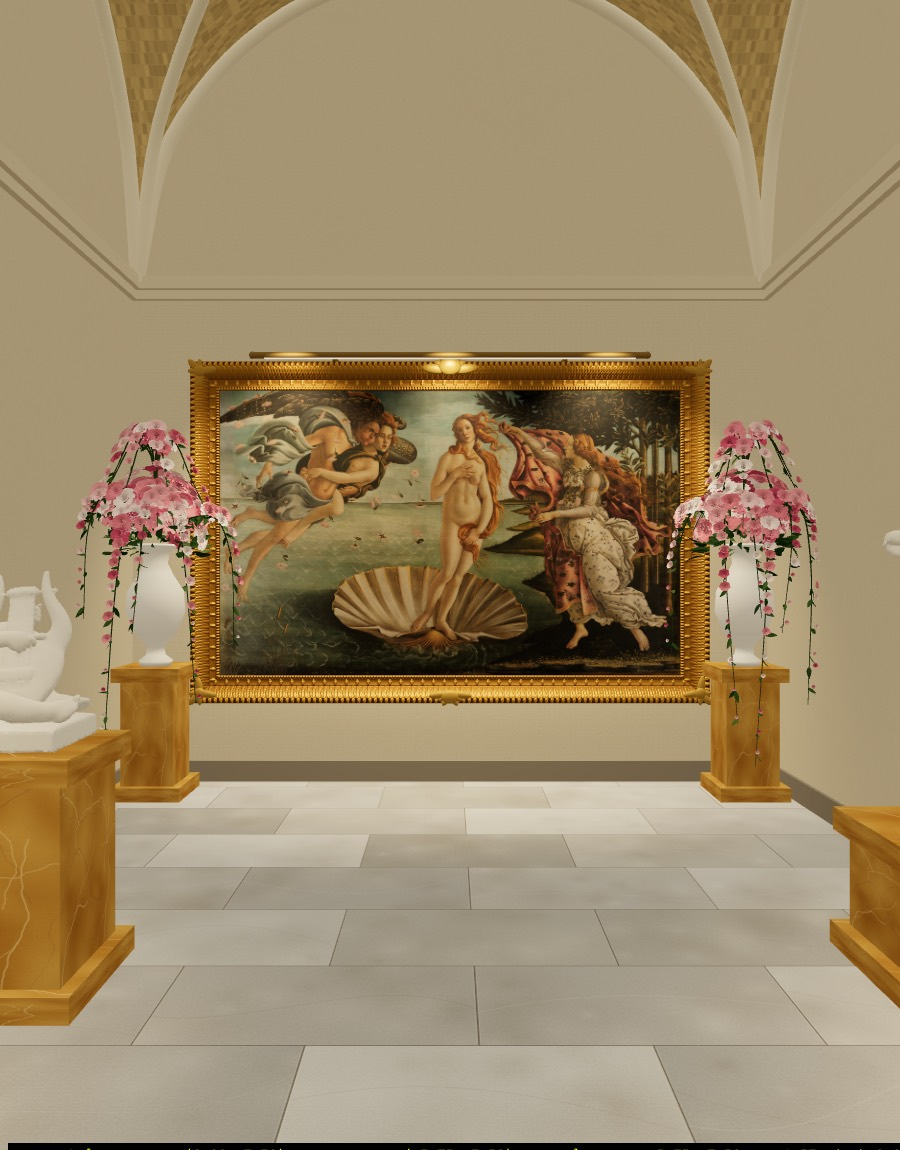
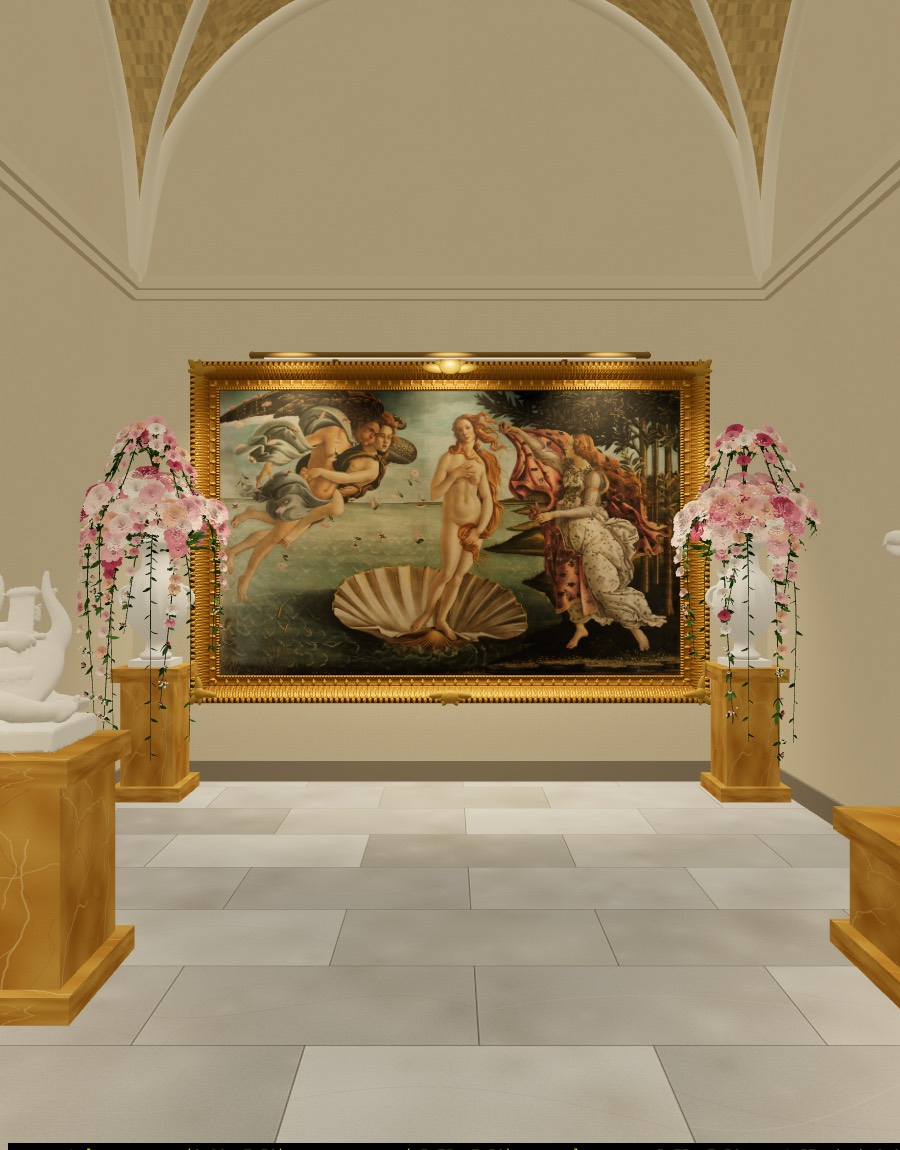
Wing I urns: carved marble vases, and a garden arrangement of roses, foliage, gypsophila and ivy

Changed region(s): [[0.0622, 0.3652, 0.28, 0.6391], [0.7467, 0.3652, 0.9022, 0.6696]]

diff --git a/Wedding website planning/gallery3d.js b/Wedding website planning/gallery3d.js
@@ -1422,11 +1422,26 @@ function pedestal(h, W = 0.5, D = W, mat = plinthMat) {             // W x D: it
   return g;
 }
 function place(g, x, z, rotY) { g.position.set(x, 0, z); g.rotation.y = rotY || 0; scene.add(g); return g; }
-function urn(top) {                                   // a tall marble urn on its pedestal
+function urn(top) {                                   // a carved marble vase on its pedestal, after the Medici and Borghese urns
   const g = pedestal(0.95);
-  const body = lathe([[0, 0], [0.11, 0], [0.12, 0.04], [0.07, 0.08], [0.06, 0.14], [0.15, 0.24], [0.21, 0.4], [0.2, 0.55], [0.12, 0.68], [0.085, 0.76], [0.1, 0.84], [0.15, 0.88], [0.13, 0.9], [0, 0.9]], marbleWhite);
+  const foot = new THREE.Mesh(new THREE.BoxGeometry(0.3, 0.05, 0.3), marbleWhite);   // square foot
+  foot.position.y = 0.95 + 0.025; g.add(foot);
+  // torus base, gadrooned bowl, a wide belly, a narrow neck and a flared lip
+  const profile = [[0, 0.05], [0.105, 0.05], [0.115, 0.085], [0.075, 0.115], [0.068, 0.19], [0.16, 0.27], [0.225, 0.42], [0.215, 0.56], [0.16, 0.66], [0.108, 0.72], [0.095, 0.8], [0.1, 0.855], [0.165, 0.895], [0.155, 0.93], [0.125, 0.93], [0, 0.93]];
+  const geo = new THREE.LatheGeometry(profile.map(([r, y]) => new THREE.Vector2(r, y)), 96), pos = geo.attributes.position;
+  for (let i = 0; i < pos.count; i++) {                            // sixteen convex flutes round the bowl, fading out towards the belly
+    const x = pos.getX(i), y = pos.getY(i), z = pos.getZ(i);
+    if (y > 0.19 && y < 0.58) { const k = Math.sin(Math.PI * (y - 0.19) / 0.39), a = Math.atan2(z, x), f = 1 + 0.05 * k * Math.cos(16 * a); pos.setXYZ(i, x * f, y, z * f); }
+  }
+  geo.computeVertexNormals();
+  const body = new THREE.Mesh(geo, marbleWhite);
   body.position.y = 0.95;
   g.add(body);
+  [-1, 1].forEach((sd) => {                                        // two scroll handles at the shoulder
+    const h = new THREE.Mesh(new THREE.TorusGeometry(0.078, 0.017, 10, 28, Math.PI), marbleWhite);
+    h.position.set(sd * 0.195, 0.95 + 0.5, 0); h.rotation.z = -sd * Math.PI / 2;
+    g.add(h);
+  });
   if (top) { top.position.y = 0.95 + 0.86; g.add(top); }
   return g;
 }
@@ -1525,68 +1540,109 @@ function taperedTube(curve, segs, r0, r1, rnd) {
   pos.needsUpdate = true;
   return geo;
 }
-// roses massed on an urn and trailing down its pedestal on vines, for the urns beside The Birth of Venus
+// roses massed on an urn and fountaining down its pedestal, for the urns beside The Birth of Venus:
+// garden roses of two varieties (cream-blush and coral-pink) with a few deep accents, at every stage from bud to
+// full bloom, on real rose foliage (leaflets in threes), with sprays of gypsophila for air and trailing ivy for depth
 function roseCascade(seed) {
   const g = new THREE.Group(), rnd = seeded(seed);
-  const petals = instancer(PETAL_GEO, new THREE.MeshStandardMaterial({ roughness: 0.62, side: THREE.DoubleSide }));
-  const leaves = instancer(LEAF_GEO, new THREE.MeshStandardMaterial({ roughness: 0.5, side: THREE.DoubleSide }));
-  const ROSES = ['#e9a3ac', '#f2c6c8', '#d97f8e', '#f6e2dc', '#e58f9d', '#c9607a'].map((h) => new THREE.Color(h));
-  const GREENS = ['#2f4a26', '#3d5a2e', '#4d6b35'].map((h) => new THREE.Color(h));
+  const petals = instancer(PETAL_GEO, new THREE.MeshStandardMaterial({ roughness: 0.68, side: THREE.DoubleSide }));
+  const leaves = instancer(LEAF_GEO, new THREE.MeshStandardMaterial({ roughness: 0.55, side: THREE.DoubleSide }));
+  const dots = instancer(new THREE.SphereGeometry(1, 7, 5), new THREE.MeshStandardMaterial({ roughness: 0.8 }));
+  const ROSES = ['#f7ead8', '#f7ead8', '#f4d3c8', '#f4d3c8', '#f4d3c8', '#eeb0b8', '#eeb0b8', '#eeb0b8', '#f1b79e', '#f1b79e', '#dd8c9c', '#dd8c9c', '#bb5872'].map((h) => new THREE.Color(h));
+  const GREENS = ['#2c4524', '#3a562c', '#4a6a34', '#587a3c'].map((h) => new THREE.Color(h));
+  const IVY = ['#22381f', '#2d4a28', '#365a2e'].map((h) => new THREE.Color(h));
   const pick = (arr) => arr[Math.floor(rnd() * arr.length)];
-  // the mass on top: a full, tall dome of open roses, leaves tucked underneath and between
-  for (let i = 0; i < 52; i++) {
+  const V = (x, y, z) => new THREE.Vector3(x, y, z);
+  // a bloom at any stage: a bud on its calyx, a half-open rose, or a full one
+  const bloom = (pos, n, size, stage) => {
+    const t = stage === undefined ? rnd() : stage;
+    if (t < 0.18) {
+      addRose(petals, pos, n, size * 0.62, pick(ROSES), rnd, 1);
+      for (let k = 0; k < 4; k++) addLeaf(leaves, pos.clone().addScaledVector(n.clone().normalize(), -size * 0.1), n.clone().normalize().applyAxisAngle(V(rnd() - 0.5, rnd() - 0.5, rnd() - 0.5).normalize(), 0.7), size * 0.9, GREENS[0], rnd);
+    } else if (t < 0.45) addRose(petals, pos, n, size * 0.85, pick(ROSES), rnd, 2);
+    else addRose(petals, pos, n, size, pick(ROSES), rnd, 3);
+  };
+  // rose foliage: a compound leaf of three leaflets, the middle one a little longer
+  const leafCluster = (pos, dir, size, col) => {
+    const d = dir.clone().normalize(), side = V(-d.z, 0, d.x).normalize();
+    if (side.lengthSq() < 1e-4) side.set(1, 0, 0);
+    addLeaf(leaves, pos, d, size * 1.05, col || pick(GREENS), rnd);
+    [-1, 1].forEach((sd) => addLeaf(leaves, pos.clone().addScaledVector(d, -size * 0.25), d.clone().addScaledVector(side, sd * 0.75).normalize(), size * 0.8, col || pick(GREENS), rnd));
+  };
+  // gypsophila: a loose spray of tiny white flowers
+  const gyp = (pos, n) => {
+    const count = 6 + Math.floor(rnd() * 6), c = new THREE.Color('#fbf6ec');
+    for (let k = 0; k < count; k++) {
+      const p = pos.clone().add(V(rnd() - 0.5, rnd() - 0.5, rnd() - 0.5).multiplyScalar(0.07)).addScaledVector(n, 0.02 + rnd() * 0.04);
+      dots.add(new THREE.Matrix4().compose(p, new THREE.Quaternion(), V(0.0065, 0.0065, 0.0065)), c);
+    }
+  };
+  // the mass on top: a tall dome of blooms, foliage tucked between and underneath, gypsophila at the edges
+  for (let i = 0; i < 58; i++) {
     const a = rnd() * 6.283, e = Math.acos(1 - rnd() * 1.05), R = 0.3 + rnd() * 0.06;
-    const n = new THREE.Vector3(Math.sin(e) * Math.cos(a), Math.cos(e), Math.sin(e) * Math.sin(a));
-    addRose(petals, n.clone().multiplyScalar(R).setY(n.y * R * 1.35 + 0.1), n, 0.048 + rnd() * 0.016, pick(ROSES), rnd);
+    const n = V(Math.sin(e) * Math.cos(a), Math.cos(e), Math.sin(e) * Math.sin(a));
+    bloom(n.clone().multiplyScalar(R).setY(n.y * R * 1.35 + 0.1), n, 0.054 + rnd() * 0.016, rnd() < 0.75 ? 0.5 + rnd() * 0.5 : rnd() * 0.45);
   }
-  // the fountain: tall sprays rising out of the middle of the dome, arching over and out, roses along the
-  // arc thinning to buds at the tips
+  for (let i = 0; i < 34; i++) {
+    const a = rnd() * 6.283, e = 0.85 + rnd() * 0.95, R = 0.3 + rnd() * 0.1;
+    const n = V(Math.sin(e) * Math.cos(a), Math.cos(e) * 0.6, Math.sin(e) * Math.sin(a));
+    leafCluster(n.clone().multiplyScalar(R * 0.82), n, 0.085 + rnd() * 0.04);
+  }
+  for (let i = 0; i < 16; i++) {
+    const a = rnd() * 6.283, e = 0.7 + rnd() * 0.7, n = V(Math.sin(e) * Math.cos(a), Math.cos(e), Math.sin(e) * Math.sin(a));
+    gyp(n.clone().multiplyScalar(0.36).setY(n.y * 0.4 + 0.1), n);
+  }
+  // the fountain: tall sprays rising out of the middle, arching over and out, thinning to buds at the tips
   const stemMat = tint('#3b4a26');
   for (let i = 0; i < 6; i++) {
     const ang = 0.35 + i * (2.45 / 5) + (rnd() - 0.5) * 0.25;                   // fanned towards the room, never into the wall
-    const out = new THREE.Vector3(Math.cos(ang), 0, Math.sin(ang)), h = 0.5 + rnd() * 0.18, reach = 0.42 + rnd() * 0.16;
-    const pts = [[0, 0.15, 0], [0.07, 0.45 + h * 0.4, 0.0], [0.28, 0.2 + h, 0], [0.62, 0.05 + h * 0.75, 0], [1, 0.05 + h * 0.15, 0]]
-      .map(([k, y]) => out.clone().multiplyScalar(k * reach).setY(y));
+    const out = V(Math.cos(ang), 0, Math.sin(ang)), h = 0.5 + rnd() * 0.18, reach = 0.42 + rnd() * 0.16;
+    const pts = [[0, 0.15], [0.07, 0.45 + h * 0.4], [0.28, 0.2 + h], [0.62, 0.05 + h * 0.75], [1, 0.05 + h * 0.15]].map(([k, y]) => out.clone().multiplyScalar(k * reach).setY(y));
     const curve = new THREE.CatmullRomCurve3(pts);
     g.add(new THREE.Mesh(taperedTube(curve, 20, 0.009, 0.0025, rnd), stemMat));
     for (let j = 0; j < 9; j++) {
       const t = 0.3 + (j + 0.5 + (rnd() - 0.5) * 0.5) / 9 * 0.7, pt = curve.getPoint(t), tan = curve.getTangent(t);
-      const outward = pt.clone().setY(0).normalize().multiplyScalar(0.7).add(new THREE.Vector3(0, 0.6 - t * 0.4, 0)).addScaledVector(tan, -0.15);
-      const size = (0.05 - 0.024 * t) * (0.85 + rnd() * 0.3);
-      addRose(petals, pt.clone().addScaledVector(outward.clone().normalize(), size * 1.1), outward, size, pick(ROSES), rnd, t > 0.9 ? 1 : t > 0.7 ? 2 : 3);
-      if (rnd() < 0.7) addLeaf(leaves, pt, new THREE.Vector3(rnd() - 0.5, -0.3 - rnd() * 0.5, rnd() - 0.5).addScaledVector(outward, 0.4), 0.05 + rnd() * 0.03, pick(GREENS), rnd);
+      const outward = pt.clone().setY(0).normalize().multiplyScalar(0.7).add(V(0, 0.6 - t * 0.4, 0)).addScaledVector(tan, -0.15);
+      const size = (0.05 - 0.02 * t) * (0.85 + rnd() * 0.3);
+      bloom(pt.clone().addScaledVector(outward.clone().normalize(), size * 1.1), outward, size, t > 0.9 ? rnd() * 0.17 : t > 0.72 ? 0.2 + rnd() * 0.25 : 0.5 + rnd() * 0.5);
+      if (rnd() < 0.8) leafCluster(pt, V(rnd() - 0.5, -0.3 - rnd() * 0.5, rnd() - 0.5).addScaledVector(outward, 0.4), 0.055 + rnd() * 0.03);
+      if (j > 5 && rnd() < 0.5) gyp(pt, outward.clone().normalize());
     }
   }
-  for (let i = 0; i < 44; i++) {
-    const a = rnd() * 6.283, e = 0.9 + rnd() * 0.9, R = 0.3 + rnd() * 0.1;
-    const n = new THREE.Vector3(Math.sin(e) * Math.cos(a), Math.cos(e) * 0.6, Math.sin(e) * Math.sin(a));
-    addLeaf(leaves, n.clone().multiplyScalar(R * 0.8), n, 0.1 + rnd() * 0.06, pick(GREENS), rnd);
-  }
-  // the cascades: vines leaving the rim, arcing out and falling, roses thinning to buds at the tips
+  // the cascades: vines leaving the rim, rising a little, arcing out and falling, roses thinning to buds at the tips
   const vineMat = tint('#3b4a26');
-  // every vine leaves towards the room (local +z), never back into the wall behind the urn
-  [[1.57, 1.6], [1.0, 1.2], [2.15, 1.3], [0.45, 0.85], [2.7, 0.9], [1.3, 0.7], [1.85, 0.6]].forEach(([ang, drop], vi) => {
-    // each vine rises out of the dome first, arcs over, and only then falls: a fountain, not a drip
-    const out = new THREE.Vector3(Math.cos(ang), 0, Math.sin(ang)), reach = 0.4 + rnd() * 0.15, rise = 0.3 + rnd() * 0.18;
-    const side = new THREE.Vector3(-out.z, 0, out.x).multiplyScalar((rnd() - 0.5) * 0.35);
+  [[1.57, 1.6], [1.0, 1.2], [2.15, 1.3], [0.45, 0.85], [2.7, 0.9], [1.3, 0.7], [1.85, 0.6]].forEach(([ang, drop]) => {
+    const out = V(Math.cos(ang), 0, Math.sin(ang)), reach = 0.4 + rnd() * 0.15, rise = 0.3 + rnd() * 0.18;
+    const side = V(-out.z, 0, out.x).multiplyScalar((rnd() - 0.5) * 0.35);
     const pts = [0, 0.15, 0.35, 0.6, 1].map((t) => out.clone().multiplyScalar(0.15 + reach * Math.sin(Math.min(1, t * 1.6) * Math.PI / 2))
       .addScaledVector(side, t * t).setY(0.12 + rise * Math.sin(Math.min(1, t * 2) * Math.PI / 2) * Math.pow(1 - t, 0.7) - drop * t * t));
     const curve = new THREE.CatmullRomCurve3(pts);
     g.add(new THREE.Mesh(taperedTube(curve, 24, 0.011, 0.002, rnd), vineMat));
-    const count = Math.round(12 + drop * 13);
+    const count = Math.round(17 + drop * 14);
     for (let i = 0; i < count; i++) {
       const t = (i + 0.5 + (rnd() - 0.5) * 0.6) / count, pt = curve.getPoint(t), tan = curve.getTangent(t);
-      const outward = pt.clone().setY(0).normalize().multiplyScalar(0.8).add(new THREE.Vector3(0, 0.55 - t * 0.5, 0)).addScaledVector(tan, -0.2);
-      const size = (0.052 - 0.026 * t) * (0.85 + rnd() * 0.3);
-      const across = new THREE.Vector3(-tan.z, 0, tan.x).multiplyScalar((rnd() - 0.5) * 0.3 * (1 - 0.8 * t));
-      addRose(petals, pt.clone().add(across).addScaledVector(outward.clone().normalize(), size * 1.2), outward, size, pick(ROSES), rnd, t > 0.85 ? 1 : t > 0.6 ? 2 : 3);
-      for (let l = 0; l < (rnd() < 0.6 ? 1 : 2); l++) {
-        const ld = new THREE.Vector3(rnd() - 0.5, -0.2 - rnd() * 0.6, rnd() - 0.5).addScaledVector(outward, 0.5);
-        addLeaf(leaves, pt, ld, 0.055 + rnd() * 0.035, pick(GREENS), rnd);
-      }
+      const outward = pt.clone().setY(0).normalize().multiplyScalar(0.8).add(V(0, 0.55 - t * 0.5, 0)).addScaledVector(tan, -0.2);
+      const size = (0.06 - 0.022 * t) * (0.85 + rnd() * 0.3);
+      const across = V(-tan.z, 0, tan.x).multiplyScalar((rnd() - 0.5) * 0.3 * (1 - 0.8 * t));
+      bloom(pt.clone().add(across).addScaledVector(outward.clone().normalize(), size * 1.2), outward, size, t > 0.88 ? rnd() * 0.17 : t > 0.7 ? 0.2 + rnd() * 0.25 : 0.5 + rnd() * 0.5);
+      leafCluster(pt, V(rnd() - 0.5, -0.2 - rnd() * 0.6, rnd() - 0.5).addScaledVector(outward, 0.5), 0.055 + rnd() * 0.03);
+      if (rnd() < 0.3) gyp(pt, outward.clone().normalize());
     }
   });
-  g.add(petals.build(), leaves.build());
+  // trailing ivy between the rose vines: no flowers, small dark leaves close along a thin stem, falling straight
+  [0.75, 1.3, 1.85, 2.4].forEach((ang) => {
+    const out = V(Math.cos(ang), 0, Math.sin(ang)), reach = 0.28 + rnd() * 0.1, drop = 1.0 + rnd() * 0.6;
+    const pts = [0, 0.2, 0.5, 1].map((t) => out.clone().multiplyScalar(0.18 + reach * Math.sin(Math.min(1, t * 1.8) * Math.PI / 2)).setY(0.1 + 0.08 * Math.sin(t * 3) - drop * t * t));
+    const curve = new THREE.CatmullRomCurve3(pts);
+    g.add(new THREE.Mesh(taperedTube(curve, 20, 0.006, 0.0015, rnd), vineMat));
+    const count = Math.round(18 + drop * 10);
+    for (let i = 0; i < count; i++) {
+      const t = (i + 0.5) / count, pt = curve.getPoint(t), tan = curve.getTangent(t);
+      const side = V(-tan.z, 0, tan.x).normalize().multiplyScalar(i % 2 ? 1 : -1);
+      addLeaf(leaves, pt, side.addScaledVector(tan, 0.3).add(V(0, -0.35, 0)), 0.04 + rnd() * 0.02, pick(IVY), rnd);
+    }
+  });
+  g.add(petals.build(), leaves.build(), dots.build());
   return g;
 }
 
